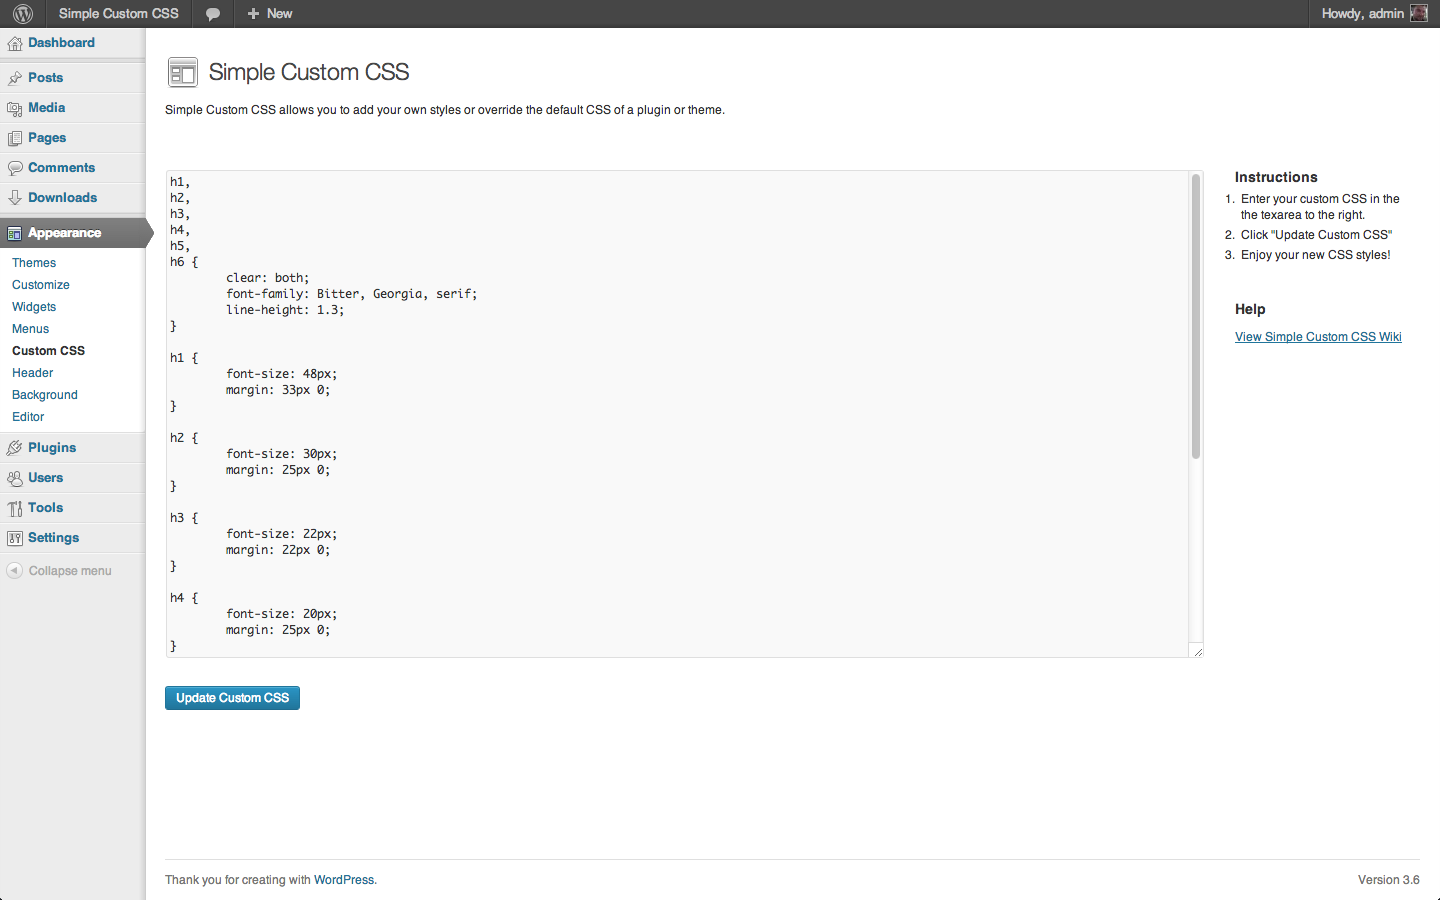
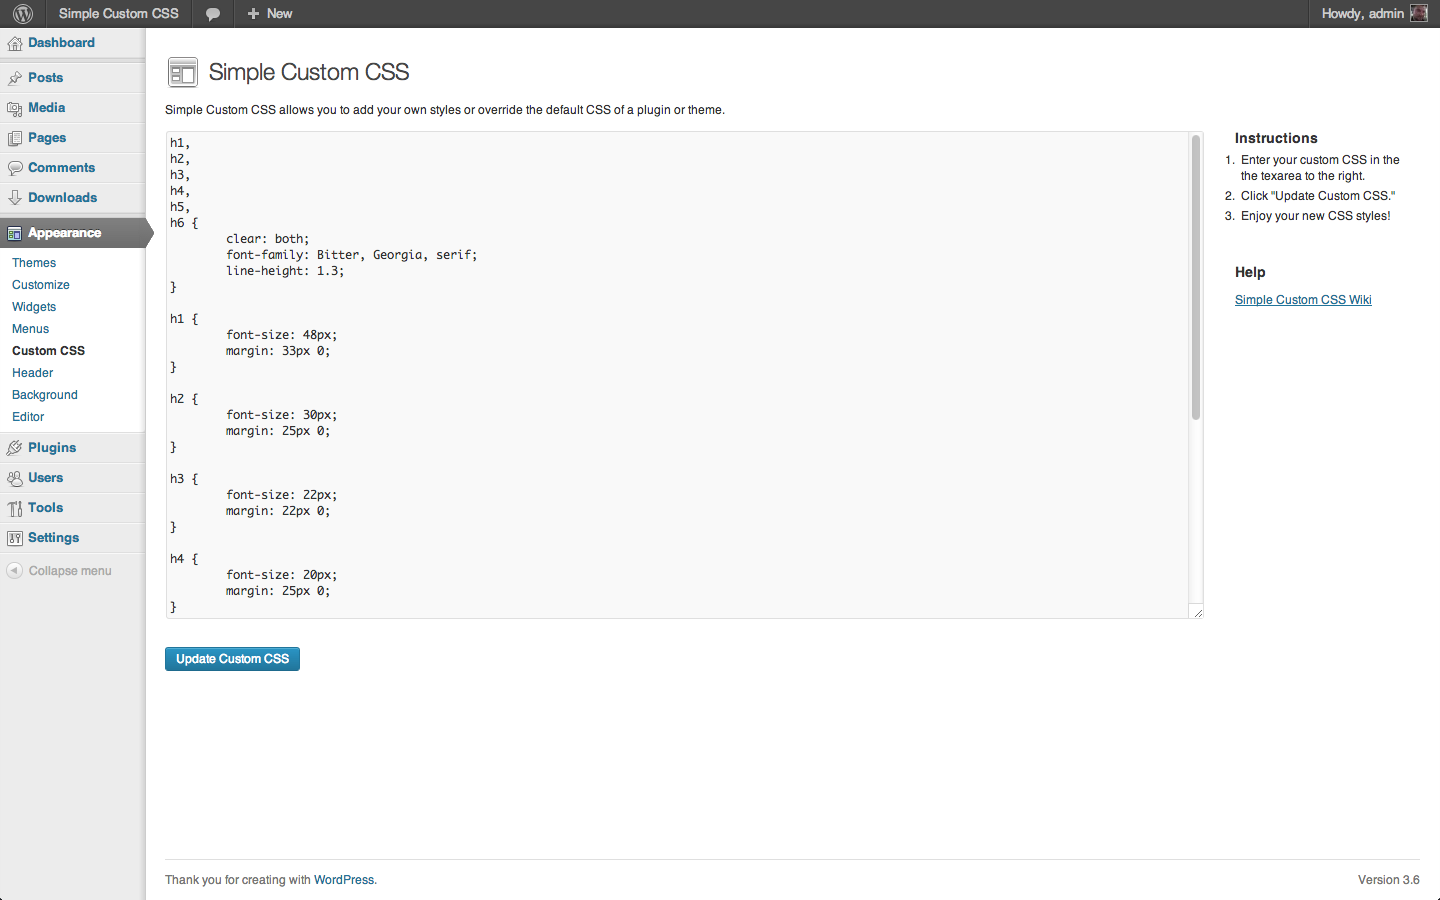
Preparing Files for WP

diff --git a/simple-custom-css.php b/simple-custom-css.php
@@ -1,11 +1,31 @@
 <?php
-/*
-	Plugin Name: Simple Custom CSS
-	Plugin URI: http://johnregan3.github.io/simple-custom-css
-	Description: The simple, solid way to add custom CSS to your WordPress website. Simple Custom CSS allows you to add your own styles or override the default CSS of a plugin or theme.</p>
-	Author: John Regan
-	Author URI: http://johnregan3.com
-	Version: 1.0
+/**
+ * Plugin Name: Simple Custom CSS
+ * Plugin URI: http://johnregan3.github.io/simple-custom-css
+ * Description: The simple, solid way to add custom CSS to your WordPress website. Simple Custom CSS allows you to add your own styles or override the default CSS of a plugin or theme.</p>
+ * Author: John Regan
+ * Author URI: http://johnregan3.me
+ * Version: 1.0
+ * Text Domain: sccss
+ *
+ * Copyright 2013  John Regan  (email : johnregan3@outlook.com)
+ *
+ * This program is free software; you can redistribute it and/or modify
+ * it under the terms of the GNU General Public License, version 2, as
+ * published by the Free Software Foundation.
+ *
+ * This program is distributed in the hope that it will be useful,
+ * but WITHOUT ANY WARRANTY; without even the implied warranty of
+ * MERCHANTABILITY or FITNESS FOR A PARTICULAR PURPOSE.  See the
+ * GNU General Public License for more details.
+ *
+ * You should have received a copy of the GNU General Public License
+ * along with this program; if not, write to the Free Software
+ * Foundation, Inc., 51 Franklin St, Fifth Floor, Boston, MA  02110-1301  USA
+ *
+ * @package SCCSS
+ * @author John Regan
+ * @version 1.0
  */
 
 
@@ -15,8 +35,9 @@
  * Fetches array of links generated by WP Plugin admin page ( Deactivate | Edit )
  * and inserts a link to the Custom CSS admin page
  *
- * @since 1.0
- * @param array Array of links generated by WP in Plugin Admin page.
+ * @since  1.0
+ * @param  array $links Array of links generated by WP in Plugin Admin page.
+ * @return array        Array of links to be output on Plugin Admin page.
  */
 
 function sccss_settings_link( $links ) {
@@ -108,40 +129,31 @@ function sccss_render_submenu_page() {
 	<div class="wrap">
 		<?php screen_icon(); ?>
 		<h2><?php _e( 'Simple Custom CSS', 'sccss' ); ?></h2>
-		<p>Simple Custom CSS allows you to add your own styles or override the default CSS of a plugin or theme.</p>
+		<p><?php _e('Simple Custom CSS allows you to add your own styles or override the default CSS of a plugin or theme.', 'sccss') ?></p>
 
-		<div class="fileedit-sub">
-			<div class="alignright"></div>
-			<br class="clear" />
-		</div>
 		<div id="templateside">
-			<h3>Instructions</h3>
+			<h3><?php _e('Instructions', 'sccss') ?></h3>
 			<ol>
-				<li>Enter your custom CSS in the the texarea to the right.</li>
-				<li>Click "Update Custom CSS"</li>
-				<li>Enjoy your new CSS styles!</li>
+				<li><?php _e('Enter your custom CSS in the the texarea to the right.', 'sccss') ?></li>
+				<li><?php _e('Click "Update Custom CSS."', 'sccss') ?></li>
+				<li><?php _e('Enjoy your new CSS styles!', 'sccss') ?></li>
 			</ol>
-			<br />
-			<br />
-			<h3>Help</h3>
-			<p><a href="<?php echo esc_url('#'); ?>" ><?php _e('View Simple Custom CSS Wiki', 'sccss'); ?></a></p>
+			<p>&nbsp;</p>
+			<h3><?php _e('Help', 'sccss') ?></h3>
+			<p><a href="<?php echo esc_url('https://github.com/johnregan3/simple-custom-css/wiki'); ?>" ><?php _e('Simple Custom CSS Wiki', 'sccss'); ?></a></p>
 		</div>
 
 		<form name="sccss-form" id="template" action="options.php" method="post" enctype="multipart/form-data">
-
 			<?php settings_fields('sccss_settings_group'); ?>
-
-
 			<div>
 				<textarea cols="70" rows="30" name="sccss_settings[sccss-content]" id="sccss_settings[sccss-content]" ><?php echo $content; ?></textarea>
 				<input type="hidden" name="action" value="update" />
 			</div>
-
 			<div>
-				<?php submit_button( __( 'Update Custom CSS' ), 'primary', 'submit', true ); ?>
+				<?php submit_button( __( 'Update Custom CSS', 'sccss' ), 'primary', 'submit', true ); ?>
 			</div>
 		</form>
-		<br class="clear" />
+
 	</div>
 
 <?php }

diff --git a/README.md b/README.md
@@ -1,15 +1,17 @@
 Simple Custom CSS Plugin
 =================
 
-An easy-to-use WordPress Plugin to add custom CSS styles that override Plugin and Theme default styles.
+An easy-to-use WordPress Plugin to add custom CSS styles that override Plugin and Theme default styles.  This plugin is designed to meet the needs of administrators who would like to add custom CSS to their WordPress website.
 
 **Features**
 
+- No configuration needed
 - Simple but effective interface built on WordPress UI
 - Virtually no impact on site performance
 - No javascript files or complicated PHP requests
 - Generates no CSS files
-- Extremely small filesize (~3KB)
+- Extremely lightweight (~4KB)
+- Thourough Documentation
 
 ### Installation
 
